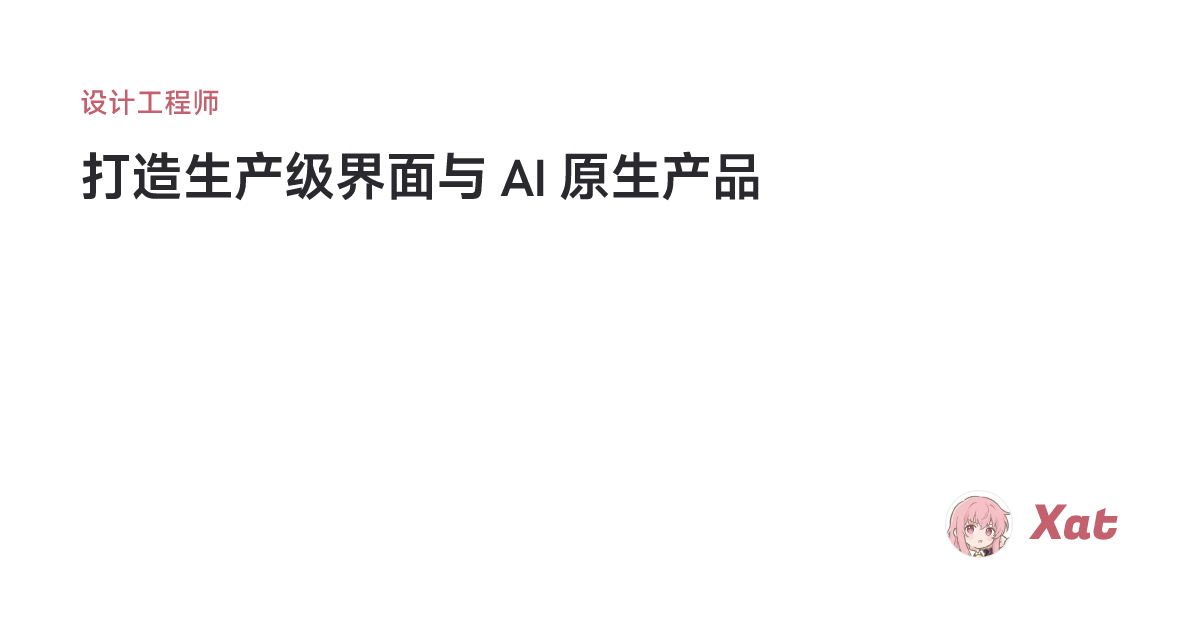
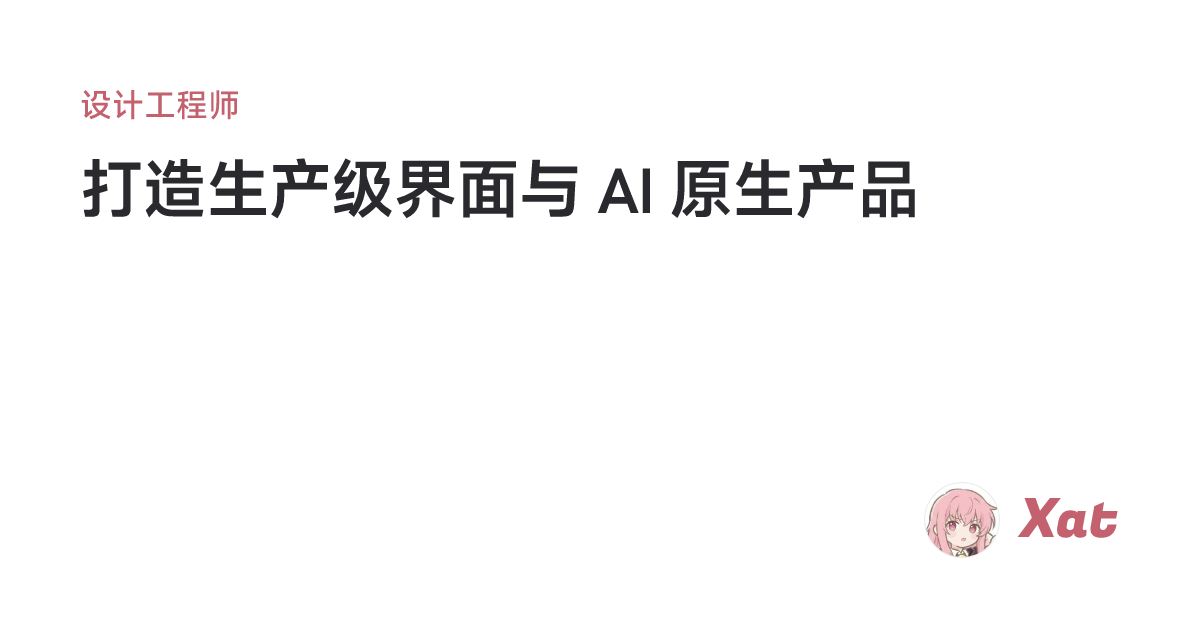
feat(og): add static page images and scale typography
Generate OG cards for post list, design, and 404; use ImI Design
System on the design preview; enlarge the shared type scale and
wire each route to its PNG.

Changed region(s): [[0.0617, 0.2413, 0.7708, 0.3619], [0.7708, 0.754, 0.9558, 0.9048], [0.0617, 0.1206, 0.2158, 0.2111]]

diff --git a/src/lib/og/template.ts b/src/lib/og/template.ts
@@ -4,6 +4,7 @@ import {
 	OG_FONT_FAMILY,
 	OG_HEIGHT,
 	OG_SITE_DEFAULT,
+	OG_TYPE,
 	OG_WIDTH,
 	ZH_CATEGORY_NAMES,
 } from '@/lib/og/constants'
@@ -23,8 +24,13 @@ export interface SiteOgInput {
 	summary: string
 }
 
-const BRAND_AVATAR_SIZE = 68
-const BRAND_WORDMARK_SIZE = 48
+export interface PageOgInput {
+	avatarSrc: string
+	header: string
+	summary: string
+	title: string
+}
+
 /** Nudge main column above vertical center (room for bottom brand). */
 const CONTENT_TOP_PADDING = 12
 
@@ -45,7 +51,7 @@ function dateHeader(dateLabel: string) {
 			children: dateLabel,
 			style: {
 				color: OG_COLORS.muted,
-				fontSize: 22,
+				fontSize: OG_TYPE.meta,
 				fontWeight: 500,
 				width: '100%',
 			},
@@ -60,13 +66,13 @@ function brandCorner(avatarSrc: string) {
 			children: [
 				{
 					props: {
-						height: BRAND_AVATAR_SIZE,
+						height: OG_TYPE.avatar,
 						src: avatarSrc,
 						style: {
 							border: `1px solid ${OG_COLORS.border}`,
 							borderRadius: 999,
 						},
-						width: BRAND_AVATAR_SIZE,
+						width: OG_TYPE.avatar,
 					},
 					type: 'img',
 				},
@@ -76,7 +82,7 @@ function brandCorner(avatarSrc: string) {
 						style: {
 							color: OG_COLORS.accent,
 							fontFamily: OG_FONT_FAMILY.wordmark,
-							fontSize: BRAND_WORDMARK_SIZE,
+							fontSize: OG_TYPE.wordmark,
 							fontWeight: 400,
 							letterSpacing: 0,
 							lineHeight: 1,
@@ -88,7 +94,7 @@ function brandCorner(avatarSrc: string) {
 			style: {
 				alignItems: 'center',
 				display: 'flex',
-				gap: 18,
+				gap: 20,
 				justifyContent: 'flex-end',
 				marginTop: 'auto',
 				width: '100%',
@@ -108,10 +114,10 @@ function categoryPill(label: string) {
 				border: `1px solid ${OG_COLORS.border}`,
 				borderRadius: 999,
 				color: OG_COLORS.muted,
-				fontSize: 20,
+				fontSize: OG_TYPE.pill,
 				fontWeight: 500,
 				marginTop: 20,
-				padding: '8px 18px',
+				padding: '10px 20px',
 			},
 		},
 		type: 'div',
@@ -130,7 +136,7 @@ export function siteOgTemplate(input: SiteOgInput) {
 									children: input.eyebrow,
 									style: {
 										color: OG_COLORS.accent,
-										fontSize: 28,
+										fontSize: OG_TYPE.eyebrow,
 										fontWeight: 500,
 									},
 								},
@@ -138,11 +144,11 @@ export function siteOgTemplate(input: SiteOgInput) {
 							},
 							{
 								props: {
-									children: truncate(input.summary, 56),
+									children: truncate(input.summary, 50),
 									style: {
 										display: 'flex',
 										flexDirection: 'column',
-										fontSize: 52,
+										fontSize: OG_TYPE.headline,
 										fontWeight: 600,
 										letterSpacing: '-0.02em',
 										lineHeight: 1.2,
@@ -153,6 +159,78 @@ export function siteOgTemplate(input: SiteOgInput) {
 								type: 'div',
 							},
 						],
+						style: {
+							display: 'flex',
+							flex: 1,
+							flexDirection: 'column',
+							justifyContent: 'flex-start',
+							paddingTop: CONTENT_TOP_PADDING,
+						},
+					},
+					type: 'div',
+				},
+				brandCorner(input.avatarSrc),
+			],
+			style: shellStyle,
+		},
+		type: 'div',
+	}
+}
+
+function pageTitleBlock(title: string, summary: string) {
+	return {
+		props: {
+			children: [
+				{
+					props: {
+						children: truncate(title, 64),
+						style: {
+							display: 'flex',
+							fontSize: OG_TYPE.headline,
+							fontWeight: 600,
+							letterSpacing: '-0.02em',
+							lineHeight: 1.15,
+							marginTop: 28,
+							maxWidth: 1000,
+						},
+					},
+					type: 'div',
+				},
+				{
+					props: {
+						children: truncate(summary, 88),
+						style: {
+							color: OG_COLORS.muted,
+							display: 'flex',
+							fontSize: OG_TYPE.body,
+							fontWeight: 400,
+							lineHeight: 1.45,
+							marginTop: 20,
+							maxWidth: 960,
+						},
+					},
+					type: 'div',
+				},
+			],
+			style: {
+				display: 'flex',
+				flex: 1,
+				flexDirection: 'column',
+				justifyContent: 'flex-start',
+			},
+		},
+		type: 'div',
+	}
+}
+
+export function pageOgTemplate(input: PageOgInput) {
+	return {
+		props: {
+			children: [
+				dateHeader(input.header),
+				{
+					props: {
+						children: [pageTitleBlock(input.title, input.summary)],
 						style: {
 							display: 'flex',
 							flex: 1,
@@ -182,49 +260,7 @@ export function postOgTemplate(input: PostOgInput) {
 					props: {
 						children: [
 							categoryPill(categoryLabel),
-							{
-								props: {
-									children: [
-										{
-											props: {
-												children: truncate(input.title, 72),
-												style: {
-													display: 'flex',
-													fontSize: 56,
-													fontWeight: 600,
-													letterSpacing: '-0.02em',
-													lineHeight: 1.15,
-													marginTop: 28,
-													maxWidth: 1000,
-												},
-											},
-											type: 'div',
-										},
-										{
-											props: {
-												children: truncate(input.summary, 96),
-												style: {
-													color: OG_COLORS.muted,
-													display: 'flex',
-													fontSize: 28,
-													fontWeight: 400,
-													lineHeight: 1.45,
-													marginTop: 20,
-													maxWidth: 960,
-												},
-											},
-											type: 'div',
-										},
-									],
-									style: {
-										display: 'flex',
-										flex: 1,
-										flexDirection: 'column',
-										justifyContent: 'flex-start',
-									},
-								},
-								type: 'div',
-							},
+							pageTitleBlock(input.title, input.summary),
 						],
 						style: {
 							display: 'flex',

diff --git a/scripts/generate-og-images.ts b/scripts/generate-og-images.ts
@@ -5,13 +5,15 @@ import { fileURLToPath } from 'node:url'
 
 import { loadOgAvatarDataUrl } from '@/lib/og/avatar'
 import { OG_SITE_DEFAULT } from '@/lib/og/constants'
+import { OG_STATIC_PAGE_FILES, OG_STATIC_PAGES } from '@/lib/og/pages'
 import { loadZhPostsForOg, toPostOgContent } from '@/lib/og/posts'
 import { renderOgPng } from '@/lib/og/render'
-import { postOgTemplate, siteOgTemplate } from '@/lib/og/template'
+import { pageOgTemplate, postOgTemplate, siteOgTemplate } from '@/lib/og/template'
 
 const root = fileURLToPath(new URL('..', import.meta.url))
 const outDir = join(root, 'public/og')
 const postOutDir = join(outDir, 'post')
+const pagesOutDir = join(outDir, 'pages')
 
 function writePng(path: string, png: Uint8Array) {
 	mkdirSync(dirname(path), { recursive: true })
@@ -28,6 +30,17 @@ async function main() {
 	}))
 	writePng(join(outDir, 'default.png'), defaultPng)
 
+	for (const pageId of Object.keys(OG_STATIC_PAGES) as Array<keyof typeof OG_STATIC_PAGES>) {
+		const copy = OG_STATIC_PAGES[pageId]
+		const png = await renderOgPng(pageOgTemplate({
+			avatarSrc,
+			header: copy.header,
+			summary: copy.summary,
+			title: copy.title,
+		}))
+		writePng(join(pagesOutDir, `${OG_STATIC_PAGE_FILES[pageId]}.png`), png)
+	}
+
 	const posts = loadZhPostsForOg()
 	for (const post of posts) {
 		const png = await renderOgPng(postOgTemplate({
@@ -37,7 +50,10 @@ async function main() {
 		writePng(join(postOutDir, `${post.slug}.png`), png)
 	}
 
-	console.info(`[og] wrote default.png and ${posts.length} post image(s) to public/og/`)
+	const pageCount = Object.keys(OG_STATIC_PAGES).length
+	console.info(
+		`[og] wrote default.png, ${pageCount} page image(s), and ${posts.length} post image(s) to public/og/`,
+	)
 }
 
 main().catch((error) => {

diff --git a/src/lib/seo-data.ts b/src/lib/seo-data.ts
@@ -1,7 +1,7 @@
 import type { Locale } from '@/lib/i18n/constants'
 
 import { htmlLangFor } from '@/lib/i18n/constants'
-import { defaultOgImageUrl, postOgImageUrl } from '@/lib/og/paths'
+import { defaultOgImageUrl, pageOgImageUrl, postOgImageUrl } from '@/lib/og/paths'
 
 export const SITE_URL = 'https://xat.sh'
 export const SITE_NAME = 'Xat'
@@ -13,7 +13,7 @@ export const PROFILE_AVATAR_SRC = 'https://avatars.githubusercontent.com/u/54651
 /** Build-time Satori PNG (`pnpm og:generate`), Chinese copy. */
 export const DEFAULT_OG_IMAGE = defaultOgImageUrl()
 
-export { postOgImageUrl }
+export { pageOgImageUrl, postOgImageUrl }
 
 /** Twitter handle for `twitter:site` / `twitter:creator` (with leading @). */
 export const TWITTER_SITE = '@withxat'

diff --git a/src/lib/og/pages.ts b/src/lib/og/pages.ts
@@ -1,0 +1,29 @@
+import zh from '@/lib/i18n/messages/zh'
+
+/** Chinese OG copy for non-post routes (aligned with `zh` messages). */
+export const OG_STATIC_PAGES = {
+	design: {
+		header: '设计系统',
+		summary: zh.design.pageDescription,
+		title: 'ImI Design System',
+	},
+	notFound: {
+		header: '404',
+		summary: zh.home.notFound.description,
+		title: zh.home.notFound.title,
+	},
+	post: {
+		header: '写作',
+		summary: zh.blog.pageDescription,
+		title: zh.blog.title,
+	},
+} as const
+
+export type OgStaticPage = keyof typeof OG_STATIC_PAGES
+
+/** Filename under `public/og/pages/` (notFound → `404.png`). */
+export const OG_STATIC_PAGE_FILES: Record<OgStaticPage, string> = {
+	design: 'design',
+	notFound: '404',
+	post: 'post',
+}

diff --git a/src/lib/og/paths.ts b/src/lib/og/paths.ts
@@ -1,3 +1,6 @@
+import type { OgStaticPage } from '@/lib/og/pages'
+
+import { OG_STATIC_PAGE_FILES } from '@/lib/og/pages'
 import { absoluteUrl } from '@/lib/seo-data'
 
 export const DEFAULT_OG_IMAGE_PATH = '/og/default.png'
@@ -6,10 +9,18 @@ export function postOgImagePath(slug: string) {
 	return `/og/post/${slug}.png`
 }
 
+export function pageOgImagePath(page: OgStaticPage) {
+	return `/og/pages/${OG_STATIC_PAGE_FILES[page]}.png`
+}
+
 export function defaultOgImageUrl() {
 	return absoluteUrl(DEFAULT_OG_IMAGE_PATH)
 }
 
 export function postOgImageUrl(slug: string) {
 	return absoluteUrl(postOgImagePath(slug))
+}
+
+export function pageOgImageUrl(page: OgStaticPage) {
+	return absoluteUrl(pageOgImagePath(page))
 }

diff --git a/src/lib/og/constants.ts b/src/lib/og/constants.ts
@@ -30,6 +30,17 @@ export const OG_FONT_FAMILY = {
 /** Matches site stack: Hanken first, MiSans for CJK. */
 export const OG_BODY_FONT_STACK = `${OG_FONT_FAMILY.display}, ${OG_FONT_FAMILY.cjk}`
 
+/** Shared OG typography scale (Satori px). */
+export const OG_TYPE = {
+	avatar: 76,
+	body: 32,
+	eyebrow: 32,
+	headline: 64,
+	meta: 26,
+	pill: 24,
+	wordmark: 54,
+} as const
+
 export const ZH_CATEGORY_NAMES: Record<string, string> = {
 	design: '设计',
 	life: '生活',
